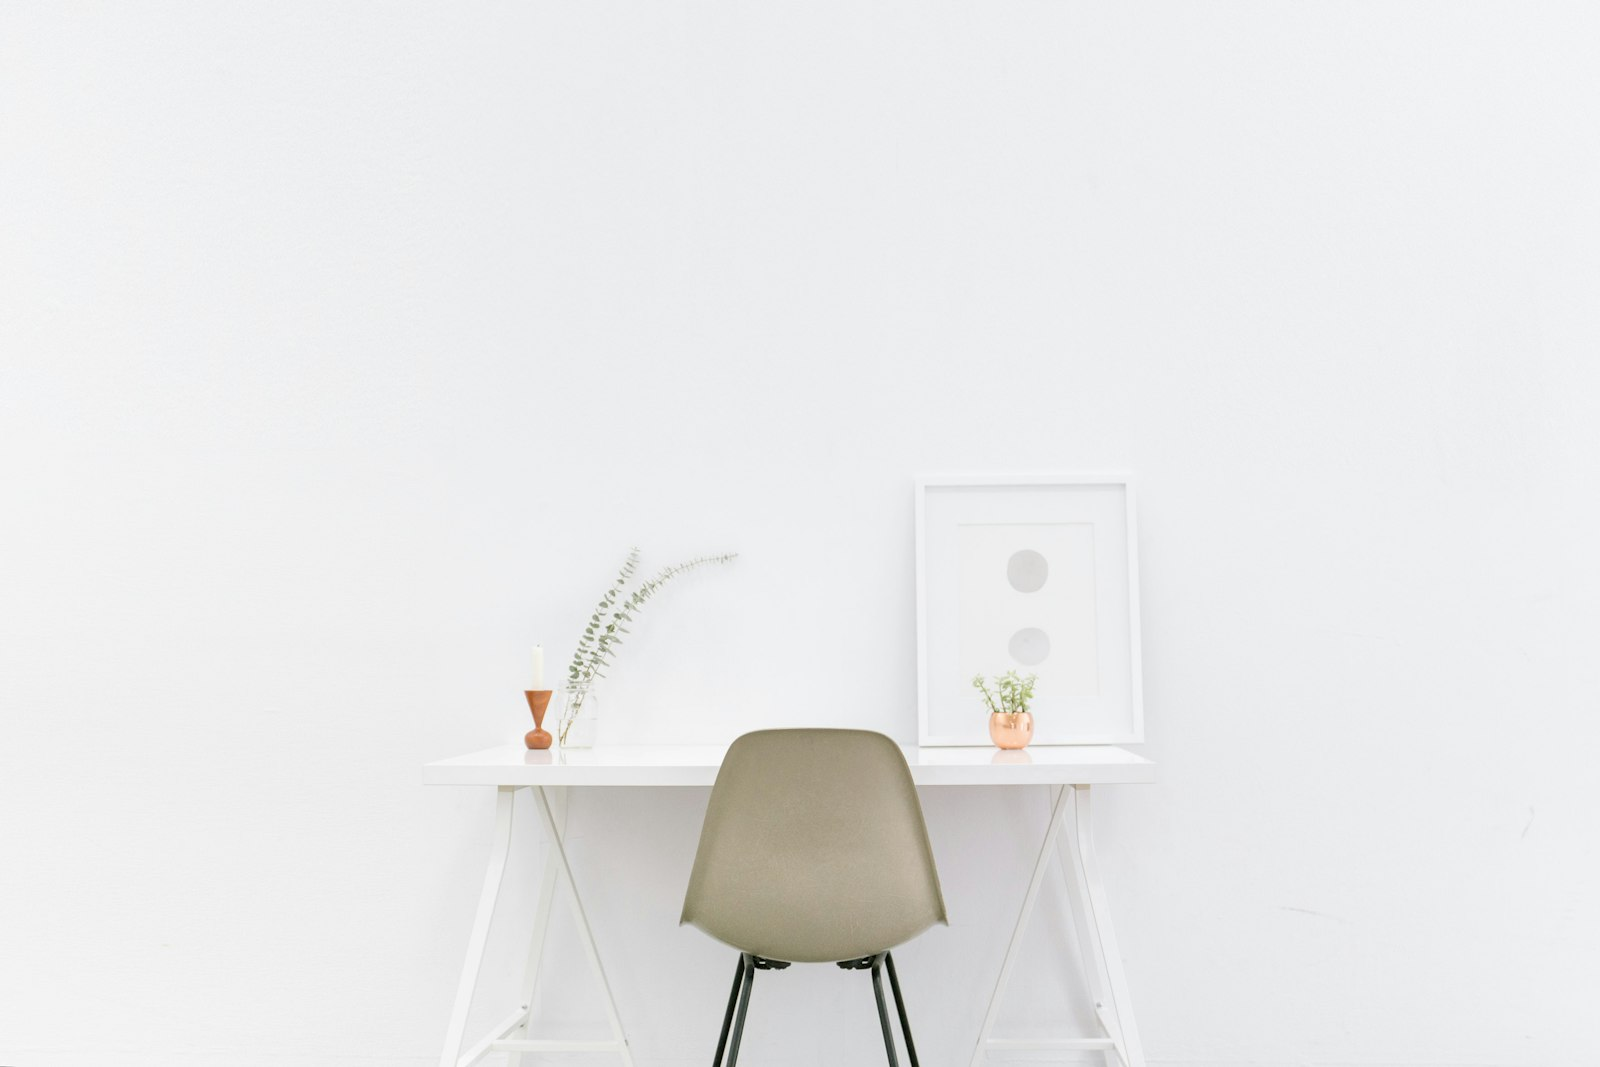
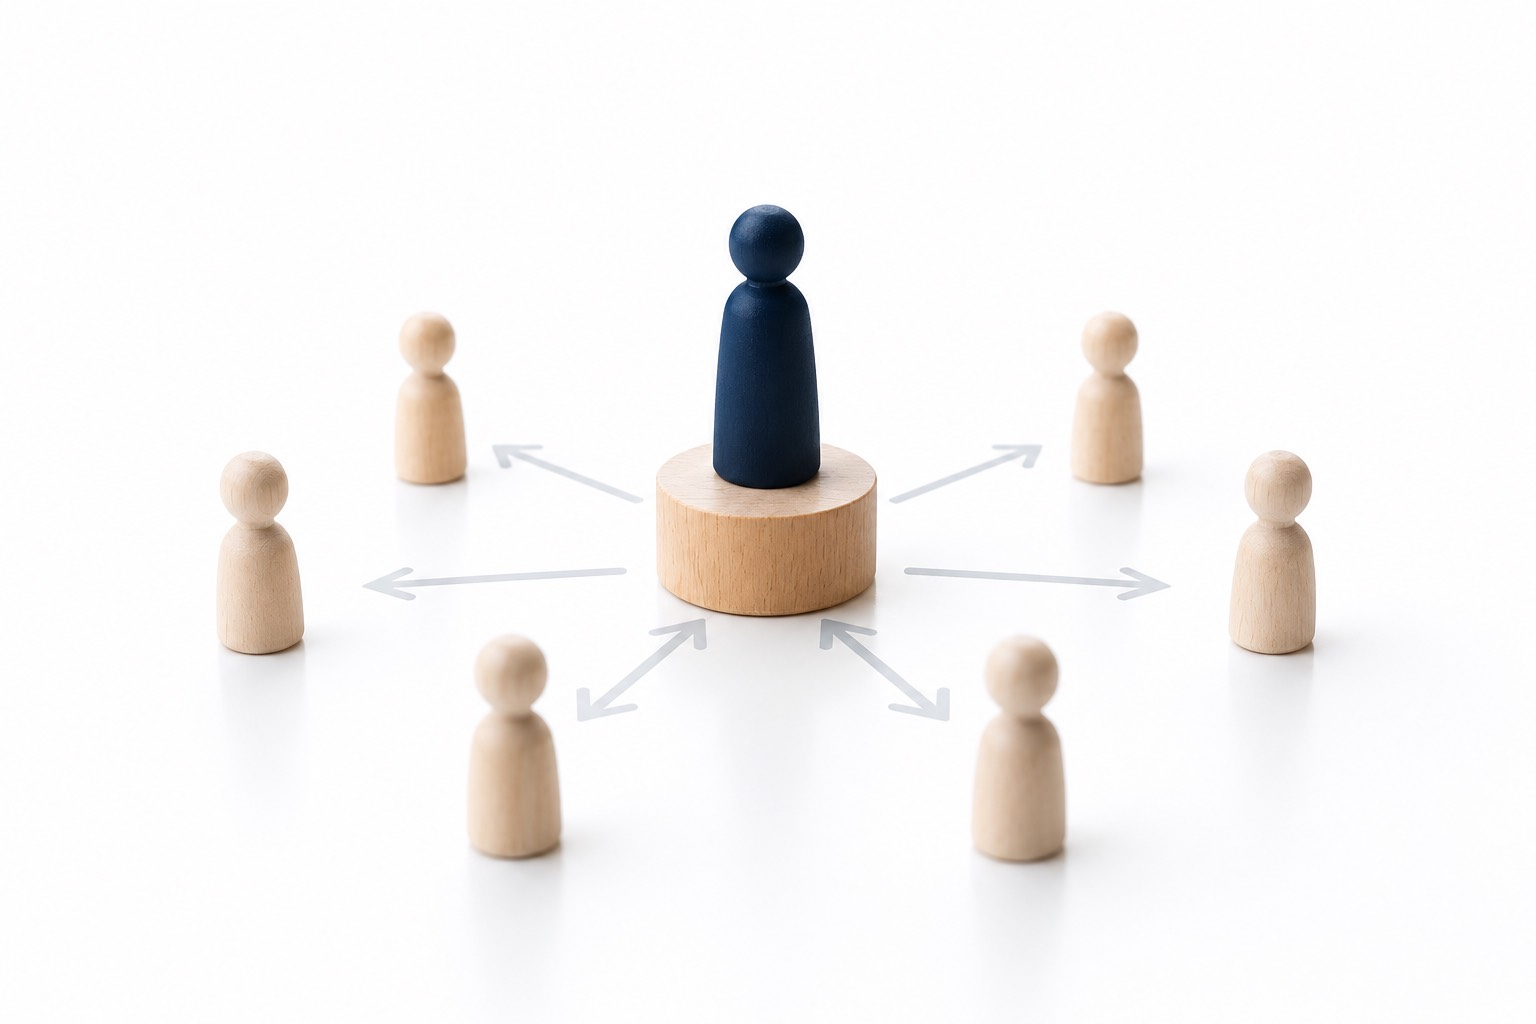
Add files via upload

diff --git a/index.html b/index.html
@@ -9,7 +9,9 @@
 <meta property="og:type" content="website">
 <meta property="og:title" content="TKパートナーズ｜社長の営業スキルを、組織の力に。">
 <meta property="og:description" content="営業の型化・仕組み構築・戦略設計で、中小企業の営業生産性に伴走する営業コンサルティングオフィスです。">
-<meta property="og:image" content="images/hero.jpg">
+<meta property="og:image" content="https://tk-partners-official.jp/images/hero.jpg">
+<meta property="og:url" content="https://tk-partners-official.jp/">
+<link rel="canonical" href="https://tk-partners-official.jp/">
 <meta name="twitter:card" content="summary_large_image">
 <meta name="google-site-verification" content="mzsAt5eMg0-gsMkNNAsNOKIdLMxg-y8sN2irlN0D-ic" />
 <style>
@@ -97,7 +99,7 @@
   nav a:hover::after { width: 100%; }
 
   /* ---------- Hero ---------- */
-  .hero { background: var(--bg-gray); overflow: hidden; }
+  .hero { background: #fff; overflow: hidden; }
   .hero-inner {
     display: grid;
     grid-template-columns: 1.05fr .95fr;
@@ -112,7 +114,7 @@
     padding: 80px 24px;
   }
   .hero-blob {
-    background: #fff;
+    background: var(--bg-gray);
     border-radius: 58% 42% 55% 45% / 52% 48% 52% 48%;
     padding: 80px 64px;
     text-align: left;
@@ -434,7 +436,7 @@
       </div>
     </div>
     <div class="hero-art">
-      <img src="images/hero.jpg" alt="明るいワークスペース">
+      <img src="images/hero.jpg" alt="組織へ力を広げるリーダーのイメージ" style="object-fit: contain; transform: scale(.8);">
     </div>
   </div>
 </div>
@@ -460,7 +462,7 @@
           <tr><th>2017</th><td>同志社大学 卒業。財閥系専門商社に入社(自動車メーカー向け産業機械の営業)</td></tr>
           <tr><th>2019</th><td>リクルート入社。三重県で新規開拓営業に従事</td></tr>
           <tr><th>2020</th><td>愛知県で新規・既存営業を担当し、上期MVP獲得</td></tr>
-          <tr><th>2021</th><td>チームリーダーに当時最年少で任用(以降、全年度で目標達成を継続)</td></tr>
+          <tr><th>2021</th><td>東海チームリーダーに任用</td></tr>
           <tr><th>2023</th><td>北陸TL。6年連続未達チームを通期チームMVPに。年間最優秀TL賞を獲得</td></tr>
           <tr><th>2025</th><td>北海道・東北グループGMに当時事業部最年少で任用</td></tr>
           <tr><th>趣味</th><td>フットサル。海外旅行(アフリカなど)。2025年12月第一子誕生、育児にも奮闘中。</td></tr>
